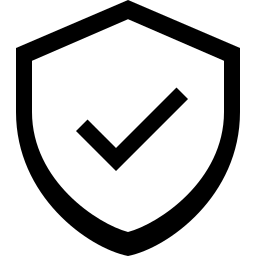
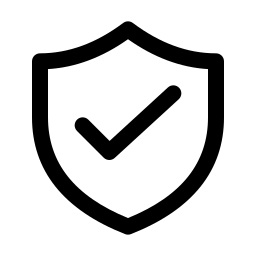
Trusted Publishing UX changes (#10527)

diff --git a/src/NuGetGallery/Scripts/gallery/page-trusted-publishing.js b/src/NuGetGallery/Scripts/gallery/page-trusted-publishing.js
@@ -287,12 +287,18 @@
                 if (!this.IsOwnerValid() || this.gitHub.EnabledDaysLeft() <= 0) {
                     return initialData.ImageUrls.DisabledTrustedPolicy;
                 }
+                if (!this.gitHub.IsPermamentlyEnabled()) {
+                    return initialData.ImageUrls.TemporaryTrustedPolicy;
+                }
                 return initialData.ImageUrls.TrustedPolicy;
             }, this);
             this.IconUrlFallback = ko.pureComputed(function () {
                 var url = initialData.ImageUrls.TrustedPolicyFallback;
                 if (!this.IsOwnerValid() || this.gitHub.EnabledDaysLeft() <= 0) {
-                    return initialData.ImageUrls.DisabledTrustedPolicy;
+                    return initialData.ImageUrls.DisabledTrustedPolicyFallback;
+                }
+                if (!this.gitHub.IsPermamentlyEnabled()) {
+                    return initialData.ImageUrls.TemporaryTrustedPolicyFallback;
                 }
                 return "this.src='" + url + "'; this.onerror = null;";
             }, this);
